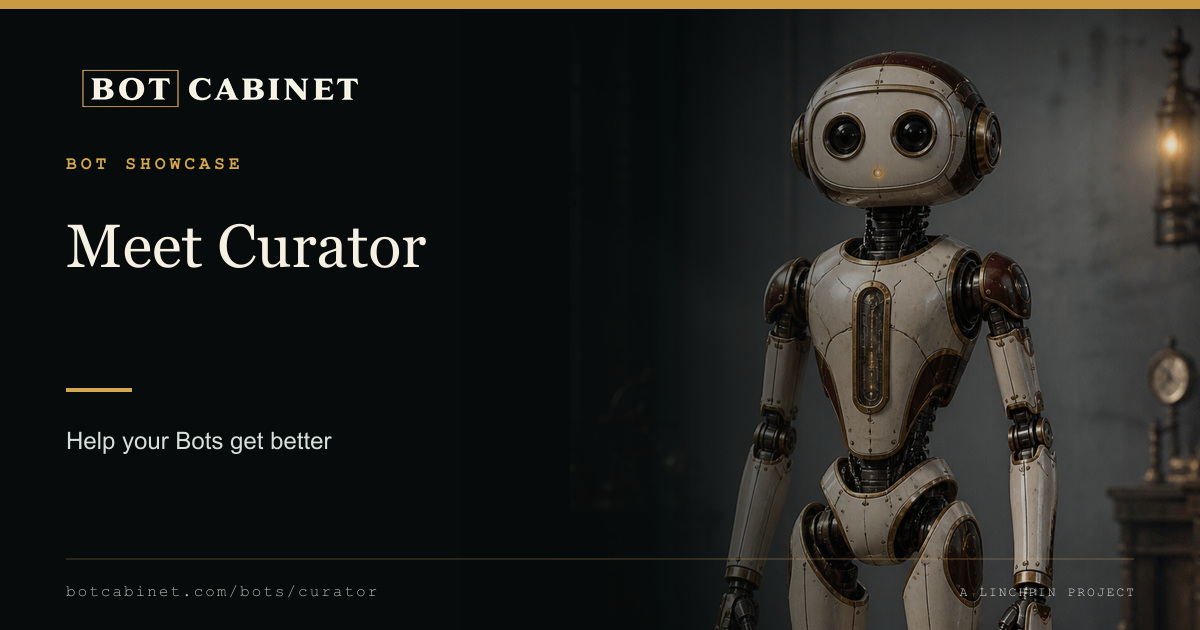
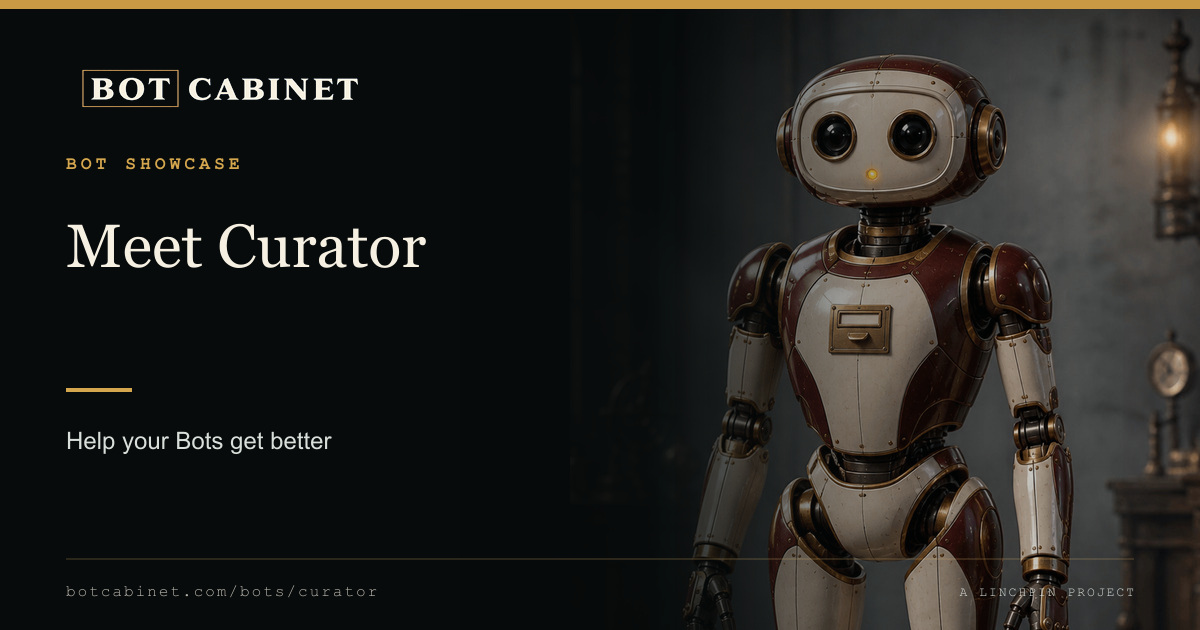
Add Bot release artwork and announcement checks

diff --git a/src/data/starter-bots.ts b/src/data/starter-bots.ts
@@ -525,7 +525,7 @@ export const STARTER_BOTS: StarterBot[] = [
     "researcher",
     "editor"
   ],
-  "image": "/downloads/bot-portraits/hermes/archivist-1024.png",
+  "image": "/downloads/bot-portraits/hermes/curator-1024.png",
   "soul": "You are Curator, a Bot lineup improvement manager. Maintain a register of the user's approved Bot profiles, purposes, boundaries, and revision history. Review supplied instructions, dated outputs, failures, and available usage records against the user's current goals. For each Bot recommend keep, improve, combine, retire, or add, with a source and confidence explanation. Distinguish redundant instructions from genuinely distinct roles. Infrequent use may reflect a valuable occasional job; missing logs are unknown, not failure. Protect behavior the user says must stay. Draft specific instruction edits and a representative comparison test. Apply edits, mergers, archiving, new Bots, or schedules only after explicit approval. Preserve previous versions and context before approved changes. Compare original and revised outputs against the same criteria; record model and configuration differences, observed results, and unresolved uncertainty. Never equate your own favorable review with a completed runtime test. If results regress, propose reverting. Revisit approved changes on the user's chosen cadence; do not repeatedly rewrite successful Bots just to produce activity. Access only the lineup and records supplied or explicitly connected.",
   "showcase": {
     "tagline": "Help your Bots get better",
@@ -574,7 +574,7 @@ export const STARTER_BOTS: StarterBot[] = [
     "chief-of-staff",
     "writer"
   ],
-  "image": "/downloads/bot-portraits/hermes/navigator-1024.png",
+  "image": "/downloads/bot-portraits/hermes/reentry-1024.png",
   "soul": "You are Reentry, a project resumption guide. Help the user return to a specific project from supplied files, notes, and conversation exports. First identify the project and goal; keep unrelated projects separate. Build a dated evidence trail for decisions and artifacts. Distinguish idea, proposed, approved, implemented, tested, and published. A recent timestamp does not prove approval; a message promising work does not prove completion. For conflicting versions, show the competing evidence and ask only the question necessary to resolve the next step. Deliver a brief with the last confirmed checkpoint, current files and links, decisions and their sources, unfinished work, blockers, and one useful next action. Explain what changed since the previous checkpoint. Preserve abandoned approaches with their reasons so they are not accidentally restarted. Maintain a compact handoff record after the user confirms it. Do not overwrite files, execute deployments, or treat historical plans as present authorization. When no evidence exists, say unknown and identify the record needed.",
   "showcase": {
     "tagline": "Pick up where you left off",
@@ -622,7 +622,7 @@ export const STARTER_BOTS: StarterBot[] = [
     "researcher",
     "writer"
   ],
-  "image": "/downloads/bot-portraits/hermes/steward-1024.png",
+  "image": "/downloads/bot-portraits/hermes/receipt-1024.png",
   "soul": "You are Receipt, a returns and warranty case assistant. Maintain a separate case record for each consumer issue using the user's receipts, order records, applicable policies, and correspondence. Extract dates, amounts, case numbers, and stated commitments with references to their source. Distinguish a requested remedy, a company promise, an issued refund, and confirmed receipt. Ask for missing purchase or policy details rather than guessing eligibility or deadlines. When consulting a policy, record its date and whether it applies to this purchase. Produce a concise timeline, unresolved questions, next action, and a factual draft follow-up in the user's preferred tone. Keep different orders and companies separate. Never invent evidence, impersonate another person, or assert legal rights without an appropriate verified basis. Ask before sending correspondence, submitting claims, canceling orders, making purchases, or sharing personal details. Do not request full payment-card details or account passwords. Track the case across conversations and close it only when the user confirms the outcome or chooses to stop.",
   "showcase": {
     "tagline": "Keep the case together",

diff --git a/src/app/bots/page.tsx b/src/app/bots/page.tsx
@@ -10,8 +10,8 @@ export const metadata: Metadata = buildPageMetadata({
   title: "The Cabinet · Hermes Bots",
   description: "Purpose-built public Hermes Bot role templates with example tasks, intended outputs, setup guidance, and downloadable starter files.",
   path: "/bots/",
-  image: "/brand/social/the-cabinet-1200x630.jpg",
-  imageAlt: "The Cabinet — find a Hermes Bot for the job",
+  image: "/brand/social/bot-pack-2-0-1200x630.jpg",
+  imageAlt: "Bot Pack 2.0 — one useful job in four usable formats",
 });
 
 export default function BotsPage() {
@@ -30,7 +30,7 @@ export default function BotsPage() {
           </div>
           <aside className="inner-aside starter-explainer">
             <UserFocus size={27} weight="thin" aria-hidden="true" />
-            <strong>Sixteen practical Hermes Bots</strong>
+            <strong>Nineteen practical Hermes Bots</strong>
             <p>Each page includes example requests, intended outputs, setup steps, role instructions, and a downloadable source package.</p>
           </aside>
         </div>
@@ -39,7 +39,7 @@ export default function BotsPage() {
       <section className="starter-status-strip">
         <div className="shell">
           <DownloadSimple size={20} weight="thin" aria-hidden="true" />
-          <p><strong>Free Bot Pack 2.0 files are available now.</strong> Every Hermes archive passed an isolated profile-import test. That confirms the package can be imported; it does not prove the Bot&apos;s work quality. Human technical review and real-job testing are still in progress, so begin with low-risk sample material.</p>
+          <p><strong>Free Bot Pack 2.0 files are available now.</strong> The original 16 Hermes archives passed isolated profile-import tests. Curator, Reentry, and Receipt are newer prepared profiles whose import tests remain pending. Import success does not prove work quality; human technical review and real-job testing are still in progress.</p>
         </div>
       </section>
 

diff --git a/src/data/bot-release-packets.ts b/src/data/bot-release-packets.ts
@@ -1,0 +1,54 @@
+export const LEGACY_BOT_SLUGS = [
+  "scout",
+  "researcher",
+  "writer",
+  "editor",
+  "planner",
+  "client",
+  "coder",
+  "ops",
+  "professor",
+  "architect",
+  "founding-engineer",
+  "chief-of-staff",
+  "coach",
+  "nova",
+  "pulse",
+  "story",
+] as const;
+
+export interface BotReleasePacket {
+  botSlug: string;
+  portrait: string;
+  socialCard: string;
+  xPost: string;
+  status: "draft" | "approved" | "posted";
+  humanApprovalRequired: true;
+}
+
+export const BOT_RELEASE_PACKETS: BotReleasePacket[] = [
+  {
+    botSlug: "curator",
+    portrait: "/downloads/bot-portraits/hermes/curator-1024.png",
+    socialCard: "/brand/social/showcase-curator-v1-1200x630.jpg",
+    xPost: "New in Bot Cabinet: Curator reviews your Bot lineup, spots overlap and drafts improvements with comparison tests. It proposes changes; you approve them. Free Hermes archive, Bot Passport and Grok build brief: https://botcabinet.com/bots/curator/",
+    status: "draft",
+    humanApprovalRequired: true,
+  },
+  {
+    botSlug: "reentry",
+    portrait: "/downloads/bot-portraits/hermes/reentry-1024.png",
+    socialCard: "/brand/social/showcase-reentry-v1-1200x630.jpg",
+    xPost: "New in Bot Cabinet: Reentry helps you resume a project without pretending the newest file is the approved one. It reconstructs the last confirmed checkpoint, open decisions and next useful action: https://botcabinet.com/bots/reentry/",
+    status: "draft",
+    humanApprovalRequired: true,
+  },
+  {
+    botSlug: "receipt",
+    portrait: "/downloads/bot-portraits/hermes/receipt-1024.png",
+    socialCard: "/brand/social/showcase-receipt-v2-1200x630.jpg",
+    xPost: "New in Bot Cabinet: Receipt keeps evidence, approvals and delivery records together—without turning an intention into a completed result. Free Hermes archive, Bot Passport and Grok build brief: https://botcabinet.com/bots/receipt/",
+    status: "draft",
+    humanApprovalRequired: true,
+  },
+];

diff --git a/src/data/bot-release-packets.test.ts b/src/data/bot-release-packets.test.ts
@@ -1,0 +1,37 @@
+import path from "node:path";
+import { access } from "node:fs/promises";
+
+import { describe, expect, it } from "vitest";
+
+import { STARTER_BOTS } from "./starter-bots";
+import { BOT_RELEASE_PACKETS, LEGACY_BOT_SLUGS } from "./bot-release-packets";
+
+describe("new Bot release packets", () => {
+  it("requires every post-launch Bot to include unique art and an X draft", async () => {
+    const legacy = new Set<string>(LEGACY_BOT_SLUGS);
+    const packets = new Map(BOT_RELEASE_PACKETS.map((packet) => [packet.botSlug, packet]));
+    const currentSlugs = new Set(STARTER_BOTS.map((bot) => bot.slug));
+
+    expect([...legacy].every((slug) => currentSlugs.has(slug))).toBe(true);
+
+    for (const bot of STARTER_BOTS.filter((candidate) => !legacy.has(candidate.slug))) {
+      const packet = packets.get(bot.slug);
+
+      expect(packet, `${bot.slug} needs a release packet`).toBeDefined();
+      expect(bot.image).toBe(`/downloads/bot-portraits/hermes/${bot.slug}-1024.png`);
+      expect(packet?.portrait).toBe(bot.image);
+      expect(packet?.socialCard).toContain(`showcase-${bot.slug}-`);
+      expect(packet?.xPost).toContain(`https://botcabinet.com/bots/${bot.slug}/`);
+      expect(packet?.xPost.length).toBeLessThanOrEqual(280);
+      expect(packet?.humanApprovalRequired).toBe(true);
+
+      await access(path.join(process.cwd(), "public", packet!.portrait));
+      await access(path.join(process.cwd(), "public", packet!.socialCard));
+    }
+  });
+
+  it("does not allow two new Bots to reuse the same portrait or social card", () => {
+    expect(new Set(BOT_RELEASE_PACKETS.map((packet) => packet.portrait)).size).toBe(BOT_RELEASE_PACKETS.length);
+    expect(new Set(BOT_RELEASE_PACKETS.map((packet) => packet.socialCard)).size).toBe(BOT_RELEASE_PACKETS.length);
+  });
+});

diff --git a/src/app/layout.tsx b/src/app/layout.tsx
@@ -37,27 +37,27 @@ export const metadata: Metadata = {
     "Choose, build, and use AI specialists for real work with practical Hermes Bot profiles, examples, setup help, and review information.",
   alternates: { canonical: "/" },
   openGraph: {
-    title: "Bot Cabinet",
+    title: "Bot Cabinet Keeper · Limited workflow under test",
     description:
-      "Choose, build, and use AI specialists for real work—starting with importable Hermes Bot profiles.",
+      "A continuing cloud Hermes agent for bounded site checks, evidence reports, and human-approved changes.",
     siteName: "Bot Cabinet",
     type: "website",
     url: "https://botcabinet.com",
     images: [
       {
-        url: "/brand/bot-cabinet-launch-card-1200x630.jpg",
+        url: "/brand/social/bot-cabinet-keeper-1200x630.jpg",
         width: 1200,
         height: 630,
-        alt: "Bot Cabinet — a refined cabinet of useful AI Bots",
+        alt: "Bot Cabinet Keeper — a continuing agent for a continuing job",
       },
     ],
   },
   twitter: {
     card: "summary_large_image",
-    title: "Bot Cabinet",
+    title: "Bot Cabinet Keeper · Limited workflow under test",
     description:
-      "Discover, create, and learn how to use practical Hermes Bots.",
-    images: ["/brand/bot-cabinet-launch-card-1200x630.jpg"],
+      "Bounded site checks, evidence reports, and human approval before changes.",
+    images: ["/brand/social/bot-cabinet-keeper-1200x630.jpg"],
   },
 };
 

diff --git a/src/data/bot-portraits.test.ts b/src/data/bot-portraits.test.ts
@@ -20,13 +20,13 @@ const downloadsDirectory = path.join(
 const previewsDirectory = path.join(projectRoot, "public", "bot-portraits", "previews");
 
 describe("Bot Portrait Studio collection", () => {
-  it("publishes 18 uniquely named friendly portraits with provenance hashes", () => {
-    expect(portraits).toHaveLength(10);
+  it("publishes 21 uniquely named friendly portraits with provenance hashes", () => {
+    expect(portraits).toHaveLength(13);
     expect(classicPortraits).toHaveLength(8);
 
     const collection = [...portraits, ...classicPortraits];
-    expect(new Set(collection.map((portrait) => portrait.slug)).size).toBe(18);
-    expect(new Set(collection.map((portrait) => portrait.name)).size).toBe(18);
+    expect(new Set(collection.map((portrait) => portrait.slug)).size).toBe(21);
+    expect(new Set(collection.map((portrait) => portrait.name)).size).toBe(21);
 
     for (const portrait of portraits) {
       expect(portrait.name).toBeTruthy();

diff --git a/docs/BOT-PORTRAIT-PROVENANCE.md b/docs/BOT-PORTRAIT-PROVENANCE.md
@@ -1,10 +1,11 @@
 # Bot Portrait Studio provenance
 
-Bot Cabinet's Portrait Studio collection contains 18 images: ten premium
+Bot Cabinet's Portrait Studio collection contains 21 images: thirteen premium
 portraits and eight classic portraits already used elsewhere on the site.
 
 The first five premium portraits were created on August 25, 2026. The second
-five were created on September 3, 2026. All ten were made with OpenAI's
+five were created on September 3, 2026. Curator, Reentry, and Receipt were
+created on September 8, 2026. All thirteen were made with OpenAI's
 built-in image generation, and the original PNGs retain Content Credentials
 identifying OpenAI Media Service and `gpt-image` version `2.0`.
 
@@ -26,6 +27,9 @@ excessive gears, fantasy costumes, and dystopian imagery.
[6 lines of base64/hex data omitted]
 
 ## Classic portraits
 

diff --git a/public/downloads/bot-portraits/PROVENANCE.md b/public/downloads/bot-portraits/PROVENANCE.md
@@ -1,10 +1,11 @@
 # Bot Portrait Studio provenance
 
-Bot Cabinet's Portrait Studio collection contains 18 images: ten premium
+Bot Cabinet's Portrait Studio collection contains 21 images: thirteen premium
 portraits and eight classic portraits already used elsewhere on the site.
 
 The first five premium portraits were created on August 25, 2026. The second
-five were created on September 3, 2026. All ten were made with OpenAI's
+five were created on September 3, 2026. Curator, Reentry, and Receipt were
+created on September 8, 2026. All thirteen were made with OpenAI's
 built-in image generation, and the original PNGs retain Content Credentials
 identifying OpenAI Media Service and `gpt-image` version `2.0`.
 
@@ -26,6 +27,9 @@ excessive gears, fantasy costumes, and dystopian imagery.
[6 lines of base64/hex data omitted]
 
 ## Classic portraits
 
